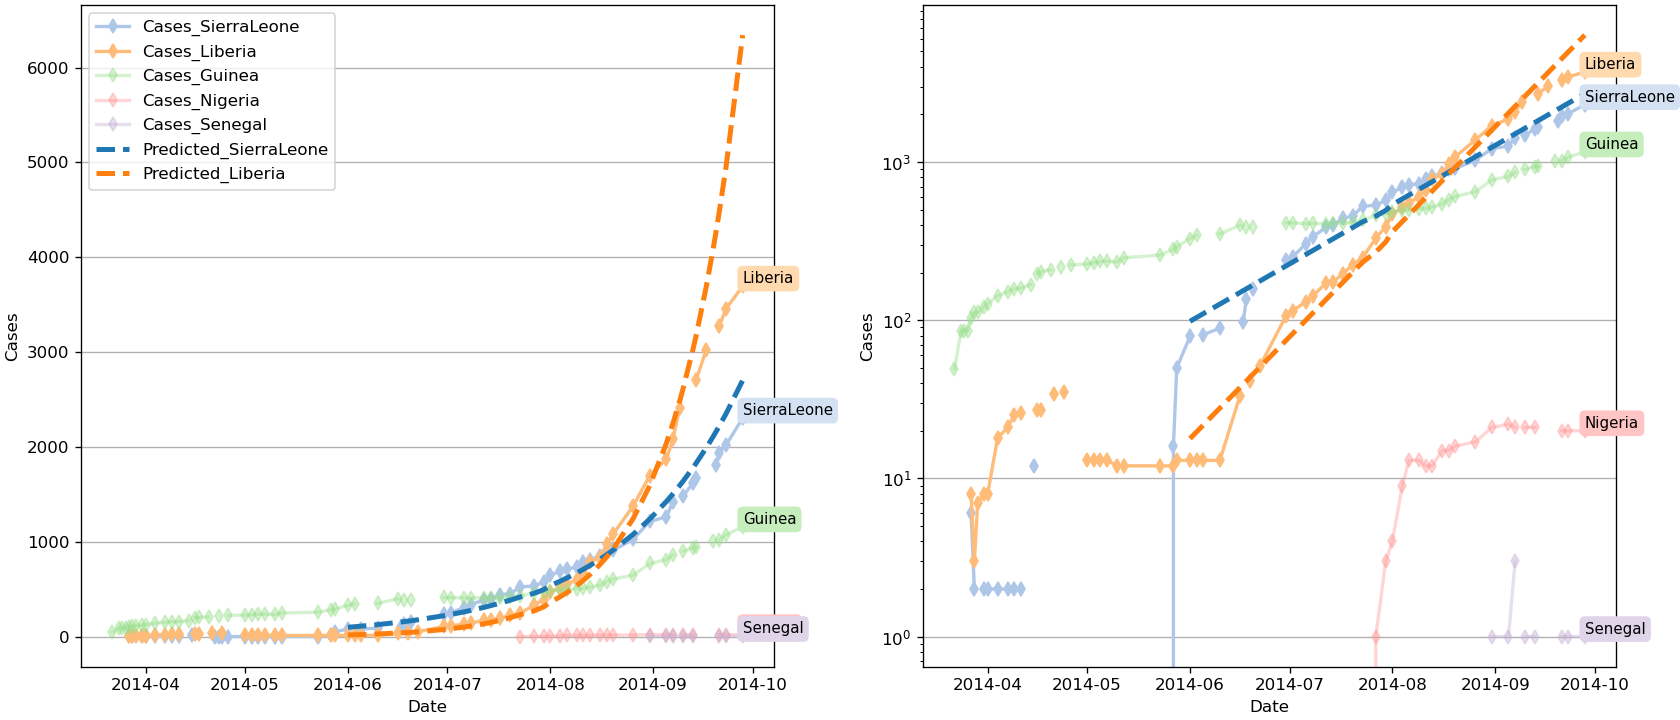
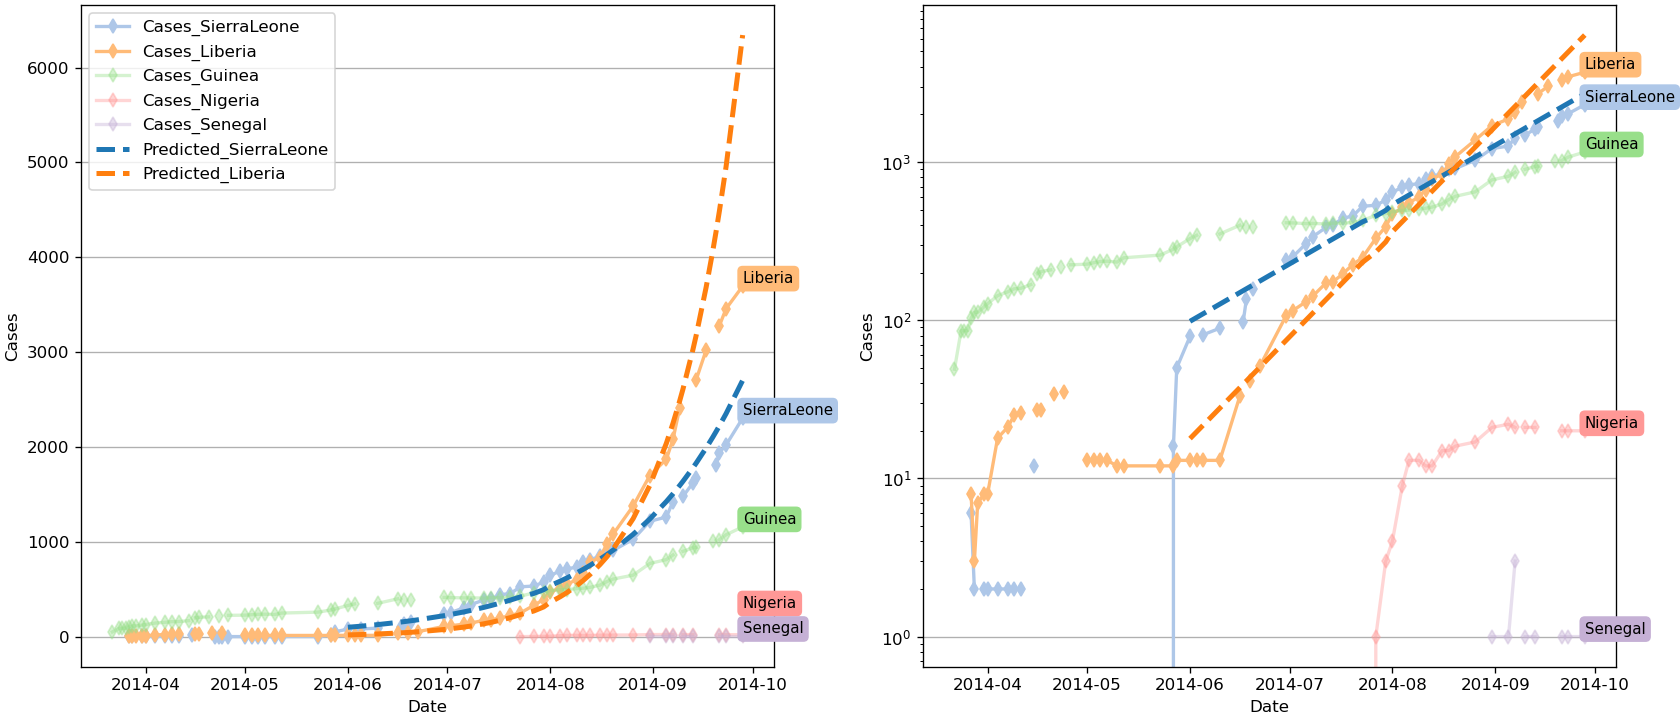
manual adjustments for nigeria/senegal

diff --git a/plot_bycountry.py b/plot_bycountry.py
@@ -7,7 +7,7 @@ import datetime
 ############
 
 cases_palette = [pyplot.cm.tab20(2*j+1) for j in range(5)]
-pred_palette = [pyplot.cm.tab20(2*j) for j in range(5)] # only needed for sierraleone and liberia.
+pred_palette = [pyplot.cm.tab20(2*j) for j in range(5)]
 
 COUNTRIES = ['SierraLeone','Liberia','Guinea','Nigeria','Senegal']
 ALPHAS = [1,1,0.4,0.4,0.4]  # lessen visual clutter of countries not being highlighted.
@@ -90,7 +90,7 @@ ax[1].set_ylabel('Cases')
 ax[0].legend(loc='upper left')
 
 # Label curves with text annotation.
-for j,(h,bgcol) in enumerate(zip(COUNTRIES,cases_palette)):
+for j,(h,bgcol) in enumerate(zip(COUNTRIES,cases_palette)):  # using pred_palette just because it's lighter.
 #    ax[1].plot(df['Date'].values, df[h].values, c=col, lw=2, marker='d',label=h, alpha=alf)
     xx = df['Date'].values[-1]
     yy = df['Cases_'+h].values[-1]
@@ -100,15 +100,18 @@ for j,(h,bgcol) in enumerate(zip(COUNTRIES,cases_palette)):
         ha='left', 
         va='bottom', 
         annotation_clip=False,
-        bbox={'color':np.sqrt(np.array(bgcol)), 'alpha':1, 'edgecolor':None, 'boxstyle':'round'}
+        bbox={'color':bgcol, 'alpha':1, 'edgecolor':None, 'boxstyle':'round'}
         )
     
+    if h=='Nigeria': # one-off correction for overlapping Senegal/Nigeria cases.
+        yy += 250
+    #
     ax[0].annotate(h, (xx,yy), 
         fontsize=9, 
         ha='left', 
         va='bottom', 
         annotation_clip=False,
-        bbox={'color':np.sqrt(np.array(bgcol)), 'alpha':1, 'edgecolor':None, 'boxstyle':'round'}
+        bbox={'color':bgcol, 'alpha':1, 'edgecolor':None, 'boxstyle':'round'}
         )
 #
 
